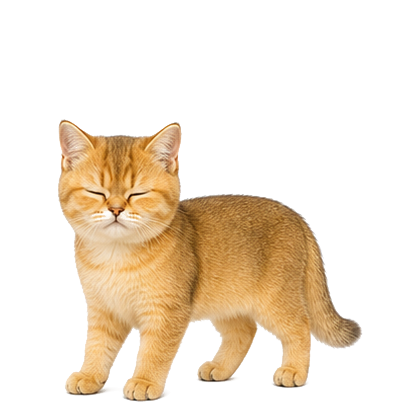
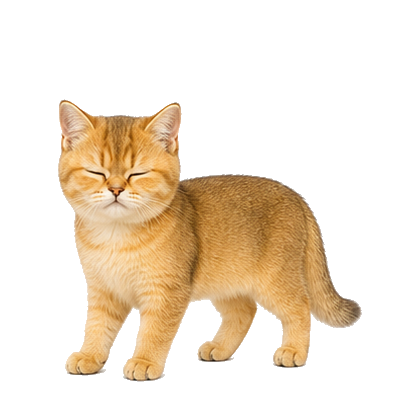
Slow pet movement and pad sprites

Changed region(s): [[0.1238, 0.2167, 0.8667, 0.9595]]

diff --git a/src/pet.js b/src/pet.js
@@ -17,6 +17,10 @@ const sizeMap = {
   large: 235,
 };
 
+const WALK_SCALE = 1.5;
+const WALK_DURATION_RANGE = [26000, 43000];
+const IDLE_DELAY_RANGE = [60000, 90000];
+
 const actionSprites = {
   idle: "assets/pet/actions/idle.png",
   blink: "assets/pet/actions/blink.png",
@@ -78,7 +82,7 @@ async function init() {
   applyOptions();
   await placeAtStart();
   await installListeners();
-  scheduleMove(500);
+  scheduleMove(IDLE_DELAY_RANGE[0]);
   resetReminderTimer();
 }
 
@@ -110,7 +114,7 @@ async function installListeners() {
       Object.assign(options, JSON.parse(event.payload));
       applyOptions();
       resetReminderTimer();
-      scheduleMove(options.enabled ? 150 : 0);
+      scheduleMove(options.enabled ? IDLE_DELAY_RANGE[0] : 0);
     } catch {
       // Ignore malformed prototype payloads.
     }
@@ -152,7 +156,7 @@ async function walkToRandomDesktopPoint() {
   if (!options.enabled) return;
 
   const bounds = await invoke("get_desktop_bounds");
-  const size = currentWindowSize();
+  const size = currentWalkWindowSize();
   const margin = 22;
   const maxX = bounds.x + bounds.width - size - margin;
   const maxY = bounds.y + bounds.height - size - margin;
@@ -164,14 +168,14 @@ async function walkToRandomDesktopPoint() {
     ? randomBetween(Math.max(minY, bounds.y + Math.round(bounds.height * 0.62)), Math.max(minY, maxY))
     : randomBetween(minY, Math.max(minY, maxY));
 
-  await walkTo(targetX, targetY, randomBetween(2600, 4300));
+  await walkTo(targetX, targetY, randomBetween(WALK_DURATION_RANGE[0], WALK_DURATION_RANGE[1]));
 }
 
 function walkTo(targetX, targetY, duration) {
   const startX = currentX;
   const startY = currentY;
   const token = ++moveToken;
-  const size = currentWindowSize();
+  const size = currentWalkWindowSize();
   const startedAt = performance.now();
   let lastMove = 0;
 
@@ -200,6 +204,7 @@ function walkTo(targetX, targetY, duration) {
         moveFrame = window.requestAnimationFrame(step);
       } else {
         stopWalking();
+        invoke("move_pet_window", { x: currentX, y: currentY, size: currentWindowSize() });
         setRandomIdleAction();
         resolve();
       }
@@ -279,9 +284,12 @@ function currentWindowSize() {
   return sizeMap[options.size] || sizeMap.small;
 }
 
+function currentWalkWindowSize() {
+  return Math.round(currentWindowSize() * WALK_SCALE);
+}
+
 function nextDelay() {
-  const base = 7000 - options.speed * 900;
-  return randomBetween(Math.max(1700, base - 900), Math.max(2400, base + 1300));
+  return randomBetween(IDLE_DELAY_RANGE[0], IDLE_DELAY_RANGE[1]);
 }
 
 function easeInOut(value) {
